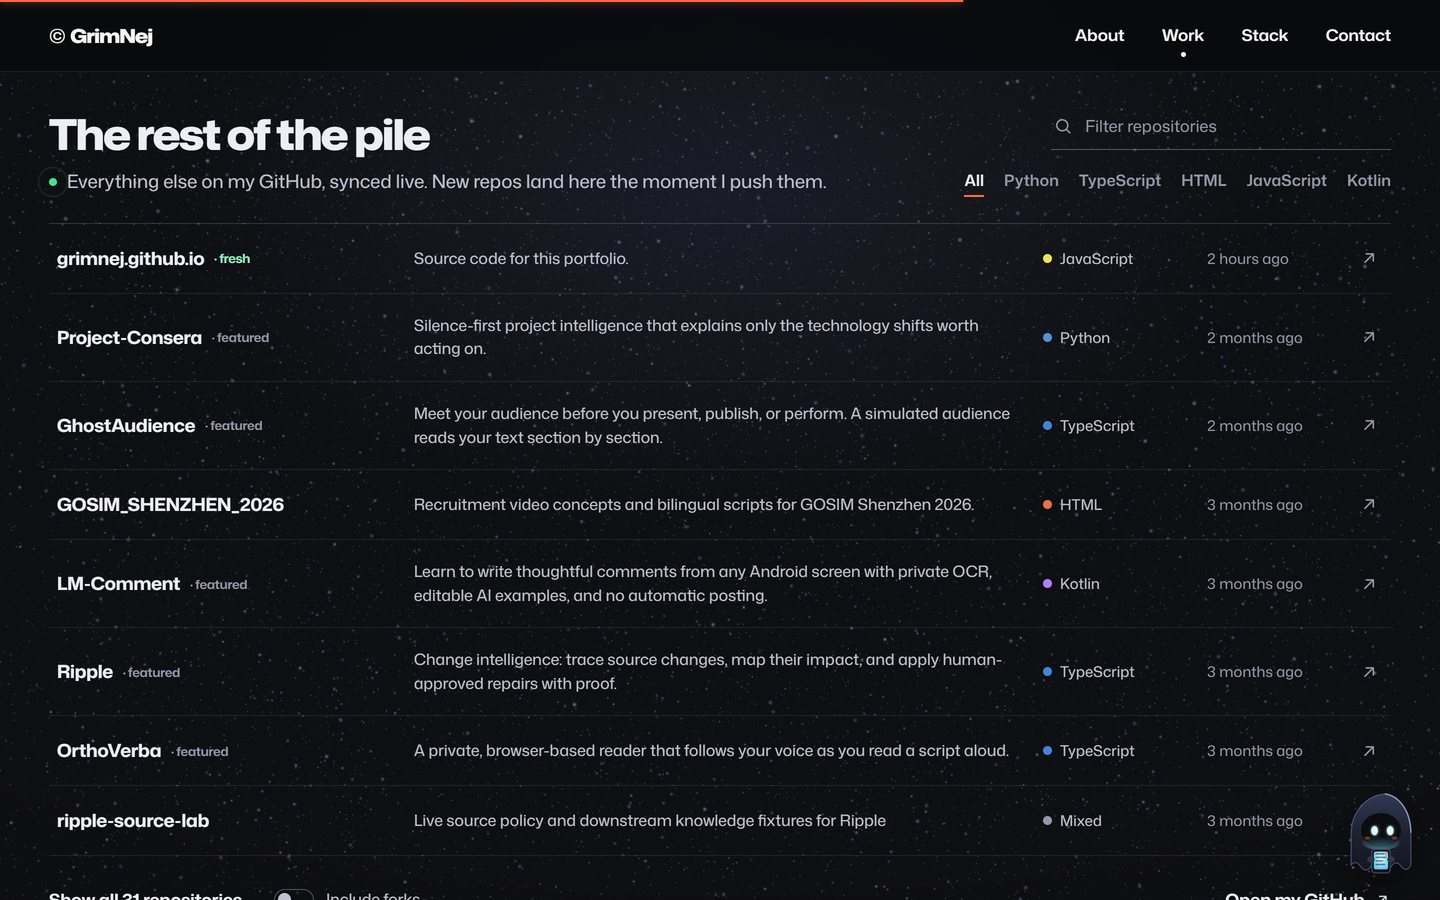
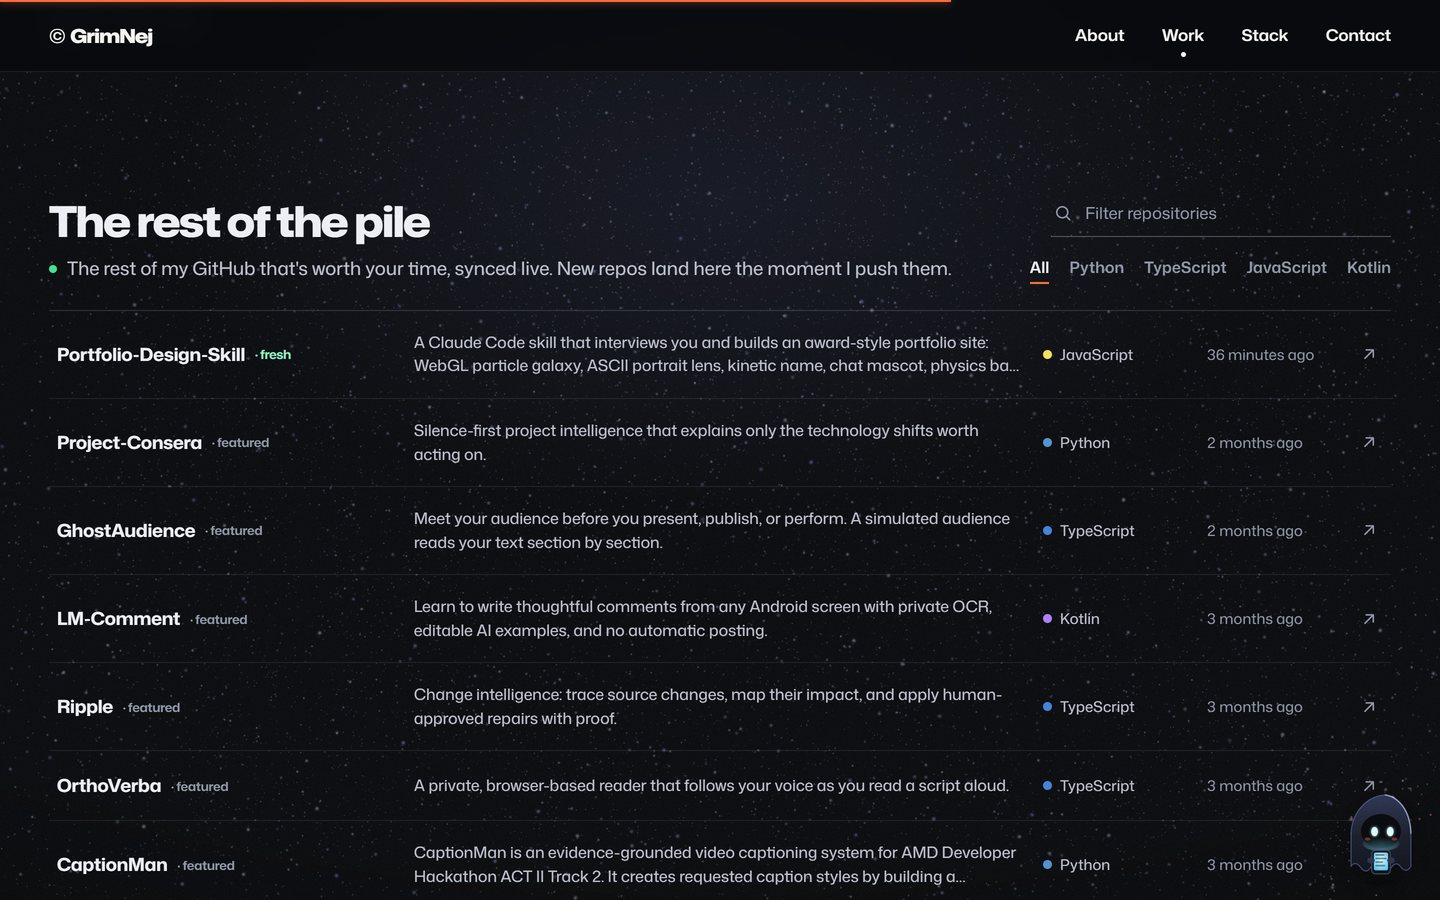
README: fresh archive screenshot and caption
The showcase archive on grimnej.com now lists only repos with a README
banner, so the screenshot is retaken from the live site, and the caption
mentions the hide list.

diff --git a/README.md b/README.md
@@ -60,7 +60,7 @@ One page, twelve scenes, zero templates-that-look-like-templates. Everything bel
     <td><img src="docs/screens/contact.jpg" alt="The contact section with a huge Let's talk heading inside the particle field" /></td>
   </tr>
   <tr>
-    <td><b>The rest of the pile.</b> Every public repo, synced live from GitHub with filters, search and forks on demand. Private repos can't leak: it only ever reads the public API.</td>
+    <td><b>The rest of the pile.</b> Your public repos, synced live from GitHub, with filters, search, forks on demand and a hide list for the ones not worth showing. Private repos can't leak: it only ever reads the public API.</td>
     <td><b>Let's talk.</b> The galaxy comes back for the finale. Email in big type, one-tap copy, every profile you have.</td>
   </tr>
 </table>
